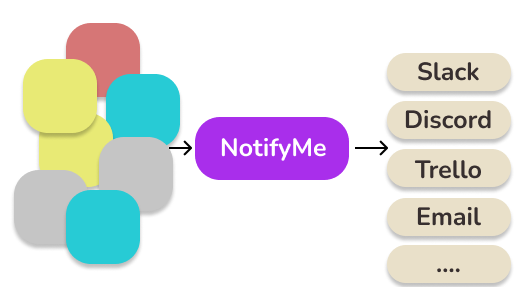
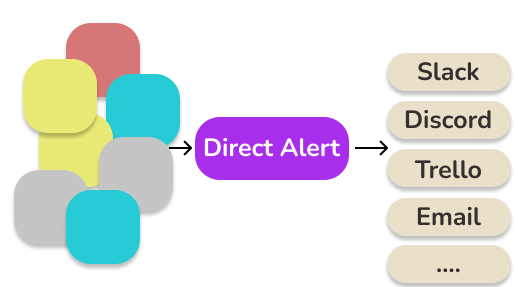
directalert

Changed region(s): [[0.3657, 0.4739, 0.6705, 0.5575]]

diff --git a/notify-me/src/components/component/home-page.tsx b/notify-me/src/components/component/home-page.tsx
@@ -24,7 +24,7 @@ export function HomePage() {
                     className="rounded-full w-20 aspect-square"
                   />
                   <h1 className="font-bold text-3xl sm:text-4xl md:text-5xl lg:text-6xl/none tracking-tighter">
-                    NotifyMe
+                    Direct Alert
                   </h1>
                 </div>
                 <p className="mx-auto max-w-[700px] text-gray-500 md:text-xl dark:text-gray-400">
@@ -94,8 +94,8 @@ export function HomePage() {
                   <h3 className="font-bold text-xl">Slack</h3>
                 </div>
                 <p className="text-gray-500 dark:text-gray-400">
-                  Notify integrates directly with Slack, allowing you to send
-                  notifications to your Slack channels and direct messages.
+                  Direct Alert integrates directly with Slack, allowing you to
+                  send notifications to your Slack channels and direct messages.
                 </p>
               </div>
               <div className="gap-1 grid p-8 md:p-10">
@@ -103,8 +103,8 @@ export function HomePage() {
                   <h3 className="font-bold text-xl">Discord</h3>
                 </div>
                 <p className="text-gray-500 dark:text-gray-400">
-                  Notify can send notifications to your Discord servers keeping
-                  your team informed in real-time.
+                  Direct Alert can send notifications to your Discord servers
+                  keeping your team informed in real-time.
                 </p>
               </div>
               <div className="gap-1 grid p-8 md:p-10">
@@ -112,7 +112,7 @@ export function HomePage() {
                   <h3 className="font-bold text-xl">Trello</h3>
                 </div>
                 <p className="text-gray-500 dark:text-gray-400">
-                  Notify can add cards your Trello boards with important
+                  Direct Alert can add cards your Trello boards with important
                   notifications, helping your team stay on top of their tasks.
                 </p>
               </div>
@@ -121,8 +121,8 @@ export function HomePage() {
                   <h3 className="font-bold text-xl">Email</h3>
                 </div>
                 <p className="text-gray-500 dark:text-gray-400">
-                  Notify can send notifications directly to your teams email
-                  inboxes, ensuring they never miss an important update.
+                  Direct Alert can send notifications directly to your teams
+                  email inboxes, ensuring they never miss an important update.
                 </p>
               </div>
               <div className="gap-1 grid p-8 md:p-10">
@@ -135,7 +135,7 @@ export function HomePage() {
                   </h3>
                 </div>
                 <p className="text-gray-500 dark:text-gray-400">
-                  Notify can deliver notifications via SMS or voice call,
+                  Direct Alert can deliver notifications via SMS or voice call,
                   keeping your team informed even when they are on the go.
                 </p>
               </div>
@@ -167,11 +167,11 @@ export function HomePage() {
                   Easy Setup and Reliable Notifications
                 </h2>
                 <p className="max-w-[900px] text-gray-500 md:text-xl/relaxed lg:text-base/relaxed xl:text-xl/relaxed dark:text-gray-400">
-                  NotifyMe is designed for <b>easy setup</b> and <b>reliable</b>{" "}
-                  notifications, efficiently handling high-volume communication.
-                  It ensures prompt and dependable message delivery, ideal for
-                  users who value <b>simplicity</b> and <b>reliability</b> in
-                  their notification systems
+                  Direct Alert is designed for <b>easy setup</b> and{" "}
+                  <b>reliable</b> notifications, efficiently handling
+                  high-volume communication. It ensures prompt and dependable
+                  message delivery, ideal for users who value <b>simplicity</b>{" "}
+                  and <b>reliability</b> in their notification systems
                 </p>
               </div>
             </div>
@@ -179,14 +179,14 @@ export function HomePage() {
               <div className="gap-1 grid p-8 md:p-10">
                 <h3 className="font-bold text-xl">Scalable Infrastructure</h3>
                 <p className="text-gray-500 dark:text-gray-400">
-                  NotifyMe cloud-based infrastructure scales automatically to
-                  handle your notification needs, no matter how large.
+                  Direct Alert cloud-based infrastructure scales automatically
+                  to handle your notification needs, no matter how large.
                 </p>
               </div>
               <div className="gap-1 grid p-8 md:p-10">
                 <h3 className="font-bold text-xl">Reliable Delivery</h3>
                 <p className="text-gray-500 dark:text-gray-400">
-                  With built-in retries and failover mechanisms, NotifyMe
+                  With built-in retries and failover mechanisms, Direct Alert
                   ensures your notifications are delivered, even in the face of
                   temporary network issues.
                 </p>
@@ -194,7 +194,7 @@ export function HomePage() {
               <div className="gap-1 grid p-8 md:p-10">
                 <h3 className="font-bold text-xl">Flexible Integrations</h3>
                 <p className="text-gray-500 dark:text-gray-400">
-                  Notify seamlessly integrates with your existing systems,
+                  Direct Alert seamlessly integrates with your existing systems,
                   allowing you to send notifications from your current services
                   over HTTPS
                 </p>
@@ -205,7 +205,7 @@ export function HomePage() {
       </main>
       <footer className="flex sm:flex-row flex-col items-center gap-2 px-4 md:px-6 py-6 border-t w-full shrink-0">
         <p className="text-gray-500 text-xs dark:text-gray-400">
-          © 2024 NotifyMe. All rights reserved.
+          © 2024 Direct Alert. All rights reserved.
         </p>
       </footer>
     </div>

diff --git a/notify-me/src/components/ProviderConnector.tsx b/notify-me/src/components/ProviderConnector.tsx
@@ -36,23 +36,17 @@ function ProviderConnector({ serviceId }: Props) {
   };
 
   const redirectURLSlack = new URL(
-    "https://notify-me.vercel.app/api/callback/slack"
+    "https://directalert.net/api/callback/slack"
   );
   redirectURLSlack.searchParams.append("levels", levels.join("-"));
   redirectURLSlack.searchParams.append("service", serviceId.toString());
 
-  const redirectURLTrello = new URL(
-    "http://localhost:3000/trello/redirect"
-    //`https://notify-me.vercel.app/api/callback/trello`
-  );
+  const redirectURLTrello = new URL("https://directalert.net/trello/redirect");
   redirectURLTrello.searchParams.append("levels", levels.join("-"));
   redirectURLTrello.searchParams.append("service", serviceId.toString());
 
-  const redirectURLDiscord = new URL("http://localhost:3000/discord");
-  //redirectURLDiscord.searchParams.append("levels", levels.join("-"));
-  //redirectURLDiscord.searchParams.append("service", serviceId.toString());
+  const redirectURLDiscord = new URL("https://directalert.net/discord");
 
-  //?client_id=1244311670957015142&permissions=3088&response_type=token&redirect_uri=http%3A%2F%2Flocalhost%3A3000%2Fdiscord&scope=bot+guilds
   const discordUrl = new URL("https://discord.com/oauth2/authorize");
   discordUrl.searchParams.append("client_id", "1244311670957015142");
   discordUrl.searchParams.append("permissions", "3088");
@@ -81,7 +75,7 @@ function ProviderConnector({ serviceId }: Props) {
   slackUrl.searchParams.append("redirect_uri", redirectURLSlack.toString());
 
   const trelloUrl = new URL("https://trello.com/1/authorize");
-  trelloUrl.searchParams.append("name", "NotifyMeToken");
+  trelloUrl.searchParams.append("name", "Direct Alert Token");
   trelloUrl.searchParams.append("scope", "write,read");
   trelloUrl.searchParams.append("response_type", "token");
   trelloUrl.searchParams.append(

diff --git a/notify-me/src/app/dashboard/layout.tsx b/notify-me/src/app/dashboard/layout.tsx
@@ -17,7 +17,7 @@ async function Layout({ children }: Children) {
       <div className="min-h-screen">
         <nav className="flex flex-row justify-between items-center p-4 border-b">
           <Link href={"/"}>
-            <h1 className="font-bold text-2xl text-orange-500">NotifyMe</h1>
+            <h1 className="font-bold text-2xl text-orange-500">Direct Alert</h1>
           </Link>
           <div className="flex flex-row gap-4">
             <Link href={"/dashboard"}>

diff --git a/notify-me/src/app/discord/page.tsx b/notify-me/src/app/discord/page.tsx
@@ -86,7 +86,7 @@ function Page() {
     <div className="flex justify-center items-center h-full min-h-screen">
       <Card>
         <CardHeader>
-          <CardTitle>Connect NotifyMe to a Discord channel</CardTitle>
+          <CardTitle>Connect Direct Alert to a Discord channel</CardTitle>
           <CardDescription>
             Select a channel below and click connect when you are done
           </CardDescription>

diff --git a/notify-me/src/app/trello/redirect/page.tsx b/notify-me/src/app/trello/redirect/page.tsx
@@ -84,7 +84,7 @@ function Page() {
     <div className="flex justify-center items-center h-full min-h-screen">
       <Card>
         <CardHeader>
-          <CardTitle>Connect NotifyMe to a Trello list</CardTitle>
+          <CardTitle>Connect Direct Alert to a Trello list</CardTitle>
           <CardDescription>
             Select a board and list below and click connect when you are done
           </CardDescription>

diff --git a/notify-me/src/app/api/callback/slack/route.ts b/notify-me/src/app/api/callback/slack/route.ts
@@ -17,7 +17,7 @@ export const GET = async (request: NextRequest) => {
     return NextResponse.json({}, { status: 400 });
 
   const redirectURLSlack = new URL(
-    "https://notify-me.vercel.app/api/callback/slack"
+    "https://directalert.net/api/callback/slack"
   );
   redirectURLSlack.searchParams.append("levels", levels);
   redirectURLSlack.searchParams.append("service", serviceId.toString());

diff --git a/notify-me/src/app/api/callback/github/route.ts b/notify-me/src/app/api/callback/github/route.ts
@@ -31,7 +31,7 @@ export const GET = async (request: NextRequest) => {
 
   const userResponse = await fetch("https://api.github.com/user", {
     headers: {
-      "User-Agent": "NotifyMe",
+      "User-Agent": "DirectAlert",
       Authorization: `Bearer ${token}`,
     },
   });
